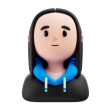
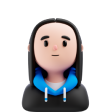
✨ feat: 로그인 상태에 따른 헤더 분기, 학습 이어하기 버튼 및 프로필 추가 (#46)

diff --git a/src/components/layout/Header.tsx b/src/components/layout/Header.tsx
@@ -4,13 +4,20 @@ import { Link, NavLink } from 'react-router-dom';
 
 import ProfileDefaultImg from '@/assets/user/profile-default.webp';
 import { ROUTES } from '@/constants/routes';
+import { useAuthStore } from '@/store/authStore';
 
 import HeaderTabs from './HeaderTabs';
 
 const Header = () => {
+  const { isLoggedIn } = useAuthStore();
+
   const headerClass = 'flex fixed w-full h-24 items-center justify-between px-5';
   const authClass =
     'flex w-20 h-9.5 items-center justify-center rounded-lg border shadow-1 text-sm font-medium';
+  const resumeClass =
+    'flex px-5.5 h-14 items-center justify-center rounded-50 bg-btn-default-bg shadow-1 gap-2 text-btn-default-text';
+  const profileClass =
+    'flex w-14 h-14 items-center justify-center rounded-full border border-profile-img-border bg-profile-img-bg shadow-1 overflow-hidden';
 
   return (
     <header className={headerClass}>
@@ -27,21 +34,35 @@ const Header = () => {
       </div>
       {/* <HeaderTabs variant="mobile" /> - TODO: 모바일 메뉴 버튼 구현 */}
       <div className="flex-1 flex justify-end gap-2.5">
-        <Link
-          to={ROUTES.SIGNIN}
-          className={`${authClass} border-link-btn-default-border bg-link-btn-default-bg text-link-btn-default-text`}
-        >
-          로그인
-        </Link>
-        <Link
-          to={ROUTES.SIGNUP}
-          className={`${authClass} border-link-btn-accent-border bg-link-btn-accent-bg text-link-btn-accent-text`}
-        >
-          회원가입
-        </Link>
+        {isLoggedIn ? (
+          <>
+            <Link className={resumeClass}>
+              {/* TODO: to 속성 API 연동 */}
+              <FilePen strokeWidth={1.5} size={19} absoluteStrokeWidth={true} />
+              <span className="font-semibold">학습 이어하기</span>
+            </Link>
+            <button className={profileClass}>
+              <img src={ProfileDefaultImg} alt="HACKPLAY" className="w-14" />{' '}
+              {/* TODO: 드롭다운, 프로필 사진 API 연동 */}
+            </button>
+          </>
+        ) : (
+          <>
+            <Link
+              to={ROUTES.SIGNIN}
+              className={`${authClass} border-link-btn-default-border bg-link-btn-default-bg text-link-btn-default-text`}
+            >
+              로그인
+            </Link>
+            <Link
+              to={ROUTES.SIGNUP}
+              className={`${authClass} border-link-btn-accent-border bg-link-btn-accent-bg text-link-btn-accent-text`}
+            >
+              회원가입
+            </Link>
+          </>
+        )}
       </div>
-      {/* <FilePen strokeWidth={1.5} size={19} absoluteStrokeWidth={true} /> - TODO: 로그인 상태 분기 */}
-      {/* <img src={ProfileDefaultImg} alt="HACKPLAY" className="w-14" /> - TODO: 로그인 상태 분기, API 연동 */}
     </header>
   );
 };

diff --git a/src/styles/styles.css b/src/styles/styles.css
@@ -9,6 +9,7 @@
 
   /* Border Radius */
   --radius-20: 1.25rem; /* 20px */
+  --radius-50: 3.125rem; /* 50px */
 
   /* Button */
   --color-btn-disabled-bg: var(--neutral-150);
@@ -66,6 +67,10 @@
   --color-nav-text-hover: var(--primary-500);
   --color-nav-text-active: var(--primary-500);
   --shadow-nav: 1px 1px 12px 0 rgba(var(--primary-300-rgb), 0.1);
+
+  /* Profile */
+  --color-profile-img-border: var(--neutral-150);
+  --color-profile-img-bg: var(--neutral-000);
 
   /* Shadow */
   --shadow-1: 1px 1px 12px 0 rgba(var(--primary-300-rgb), 0.1);

diff --git a/src/styles/global.css b/src/styles/global.css
@@ -25,7 +25,6 @@ body {
   min-width: 360px;
   min-height: 100%;
 
-  font-size: 22px;
   font-weight: 500;
   line-height: 1;
 }
